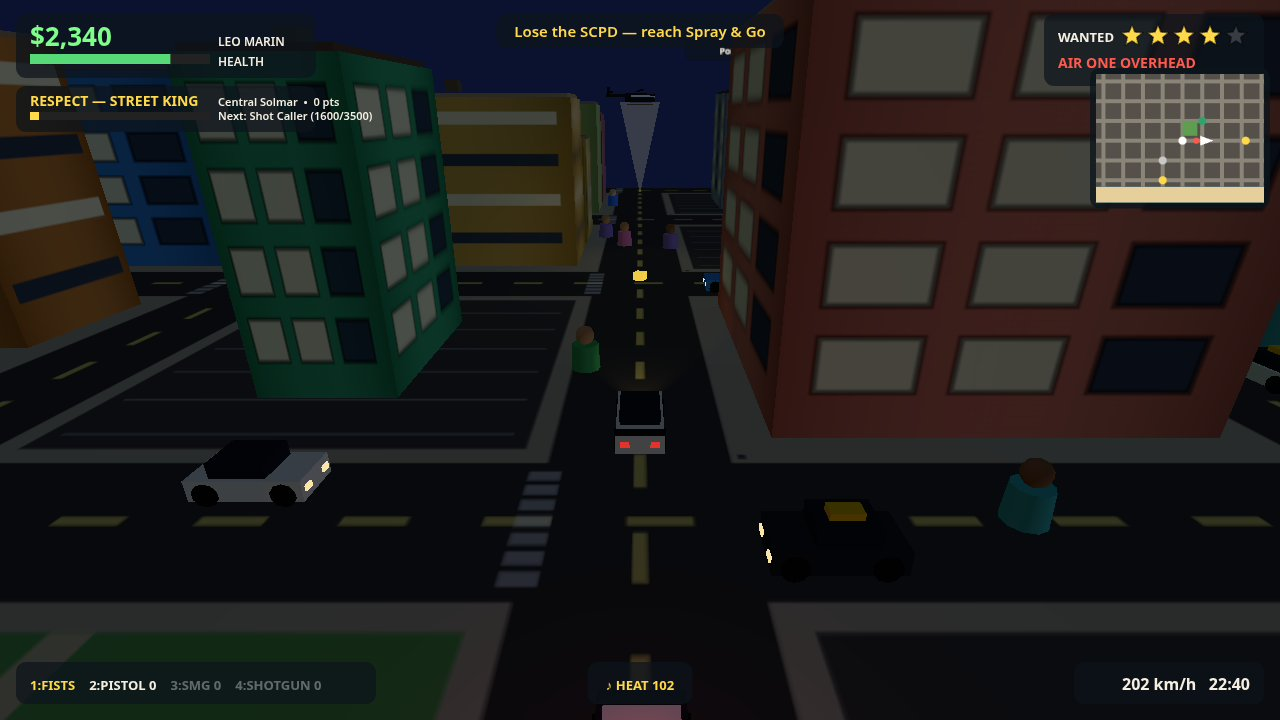
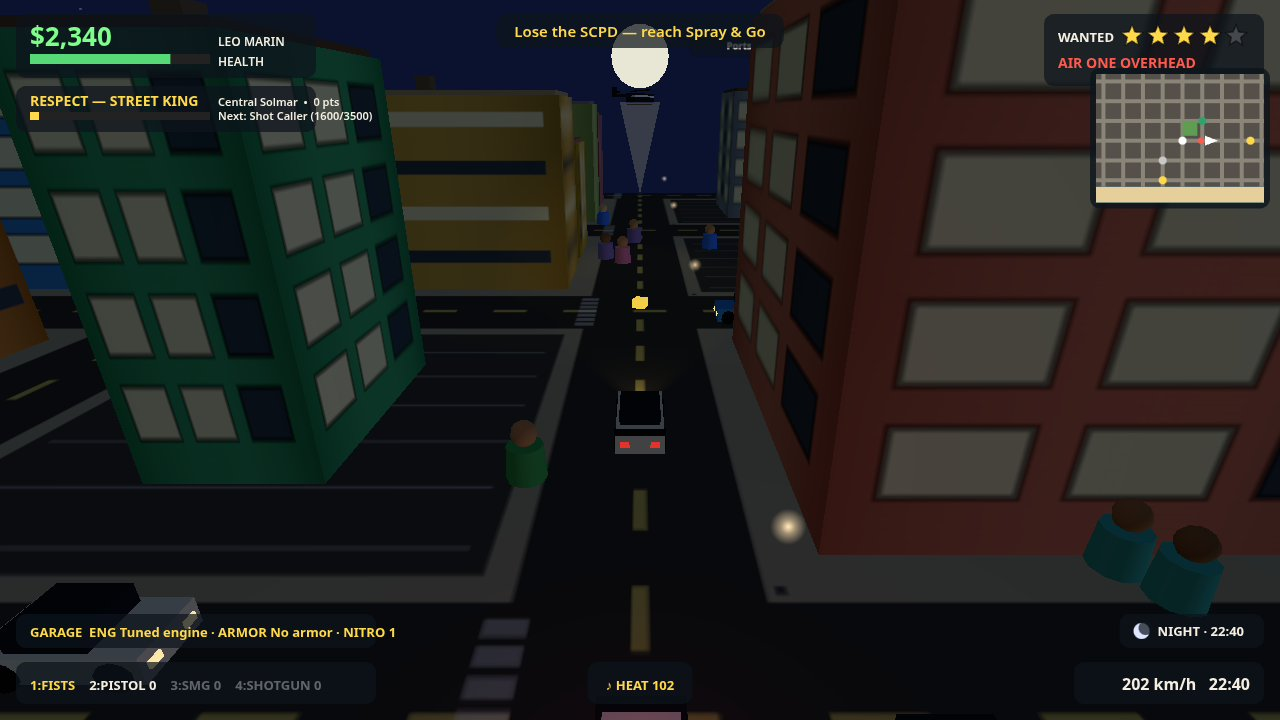
gta 06 v3: soft sky glows, moon in frame
- Point clouds (streetlamps, stars, rain) use a radial-gradient sprite
  texture instead of hard squares — a lamp near the camera no longer
  renders as a beige box
- The moon rides low ahead of the player so it stays inside the chase
  camera's frame at night
- Screenshots retaken from the fixed build

diff --git a/game/src/render.js b/game/src/render.js
@@ -40,6 +40,26 @@ function lerpColor(a, b, t) {
   );
 }
 
+/**
+ * A soft round glow, drawn once on a canvas and reused as the map for
+ * every point cloud (lamps, stars, rain). Without it, three.js draws each
+ * point as a hard square — a streetlamp near the camera becomes a beige
+ * box floating over the street.
+ */
+function makeGlowTexture() {
+  const c = document.createElement('canvas');
+  c.width = 64;
+  c.height = 64;
+  const g = c.getContext('2d');
+  const grad = g.createRadialGradient(32, 32, 0, 32, 32, 32);
+  grad.addColorStop(0, 'rgba(255,255,255,1)');
+  grad.addColorStop(0.4, 'rgba(255,255,255,0.5)');
+  grad.addColorStop(1, 'rgba(255,255,255,0)');
+  g.fillStyle = grad;
+  g.fillRect(0, 0, 64, 64);
+  return new THREE.CanvasTexture(c);
+}
+
 // Shared materials, cached by colour so the scene stays cheap.
 const materialCache = new Map();
 function lambert(color, opts) {
@@ -519,6 +539,8 @@ export function createRenderer(gameCanvas, hudCanvas) {
   } catch { software = true; }
 
   const renderer = new THREE.WebGLRenderer({ canvas: gameCanvas, antialias: !software });
+  // One soft glow texture for every point cloud in the sky.
+  const glowTex = makeGlowTexture();
   renderer.setPixelRatio(Math.min(window.devicePixelRatio || 1, software ? 1 : 1.5));
   renderer.shadowMap.enabled = !software;
   renderer.shadowMap.type = THREE.PCFSoftShadowMap;
@@ -635,7 +657,8 @@ export function createRenderer(gameCanvas, hudCanvas) {
     });
     lampGeo.setAttribute('position', new THREE.BufferAttribute(lampPos, 3));
     dyn.lampGlow = new THREE.Points(lampGeo, new THREE.PointsMaterial({
-      color: 0xffd9a0, size: 24, transparent: true, opacity: 0, depthWrite: false,
+      color: 0xffd9a0, size: 22, transparent: true, opacity: 0, depthWrite: false,
+      map: glowTex, blending: THREE.AdditiveBlending,
     }));
     dyn.lampGlow.frustumCulled = false;
     scene.add(dyn.lampGlow);
@@ -924,7 +947,7 @@ export function createRenderer(gameCanvas, hudCanvas) {
       }
       geo.setAttribute('position', new THREE.BufferAttribute(dyn.rainPos, 3));
       dyn.rain = new THREE.Points(geo, new THREE.PointsMaterial({
-        color: 0xaec6dd, size: 3, transparent: true, opacity: 0, depthWrite: false,
+        color: 0xaec6dd, size: 3, transparent: true, opacity: 0, depthWrite: false, map: glowTex,
       }));
       dyn.rain.frustumCulled = false;
       scene.add(dyn.rain);
@@ -945,6 +968,7 @@ export function createRenderer(gameCanvas, hudCanvas) {
       geo.setAttribute('position', new THREE.BufferAttribute(pos, 3));
       dyn.stars = new THREE.Points(geo, new THREE.PointsMaterial({
         color: 0xffffff, size: 2.2, sizeAttenuation: false, transparent: true, opacity: 0, depthWrite: false,
+        map: glowTex, blending: THREE.AdditiveBlending,
       }));
       dyn.stars.frustumCulled = false;
       scene.add(dyn.stars);
@@ -1031,7 +1055,8 @@ export function createRenderer(gameCanvas, hudCanvas) {
         dyn.rain.geometry.attributes.position.needsUpdate = true;
       }
     }
-    // Stars fade in with the dark; the moon rides its nightly arc.
+    // Stars fade in with the dark; the moon rides its nightly arc, low
+    // ahead of the player so it stays inside the chase camera's frame.
     if (dyn.stars) dyn.stars.material.opacity = nightF * 0.9;
     const moonAngle = moonAngleFor(game.clock);
     if (dyn.moon) {
@@ -1040,9 +1065,9 @@ export function createRenderer(gameCanvas, hudCanvas) {
       } else {
         dyn.moon.visible = true;
         dyn.moon.position.set(
-          player.x + Math.cos(moonAngle) * 900,
-          350 + Math.sin(moonAngle) * 350,
-          player.y + Math.sin(moonAngle) * 900,
+          player.x + Math.cos(player.angle) * 1100,
+          160 + Math.sin(moonAngle) * 120,
+          player.y + Math.sin(player.angle) * 1100,
         );
         dyn.moon.material.opacity = nightF > 0.05 ? 0.95 : 0;
       }
